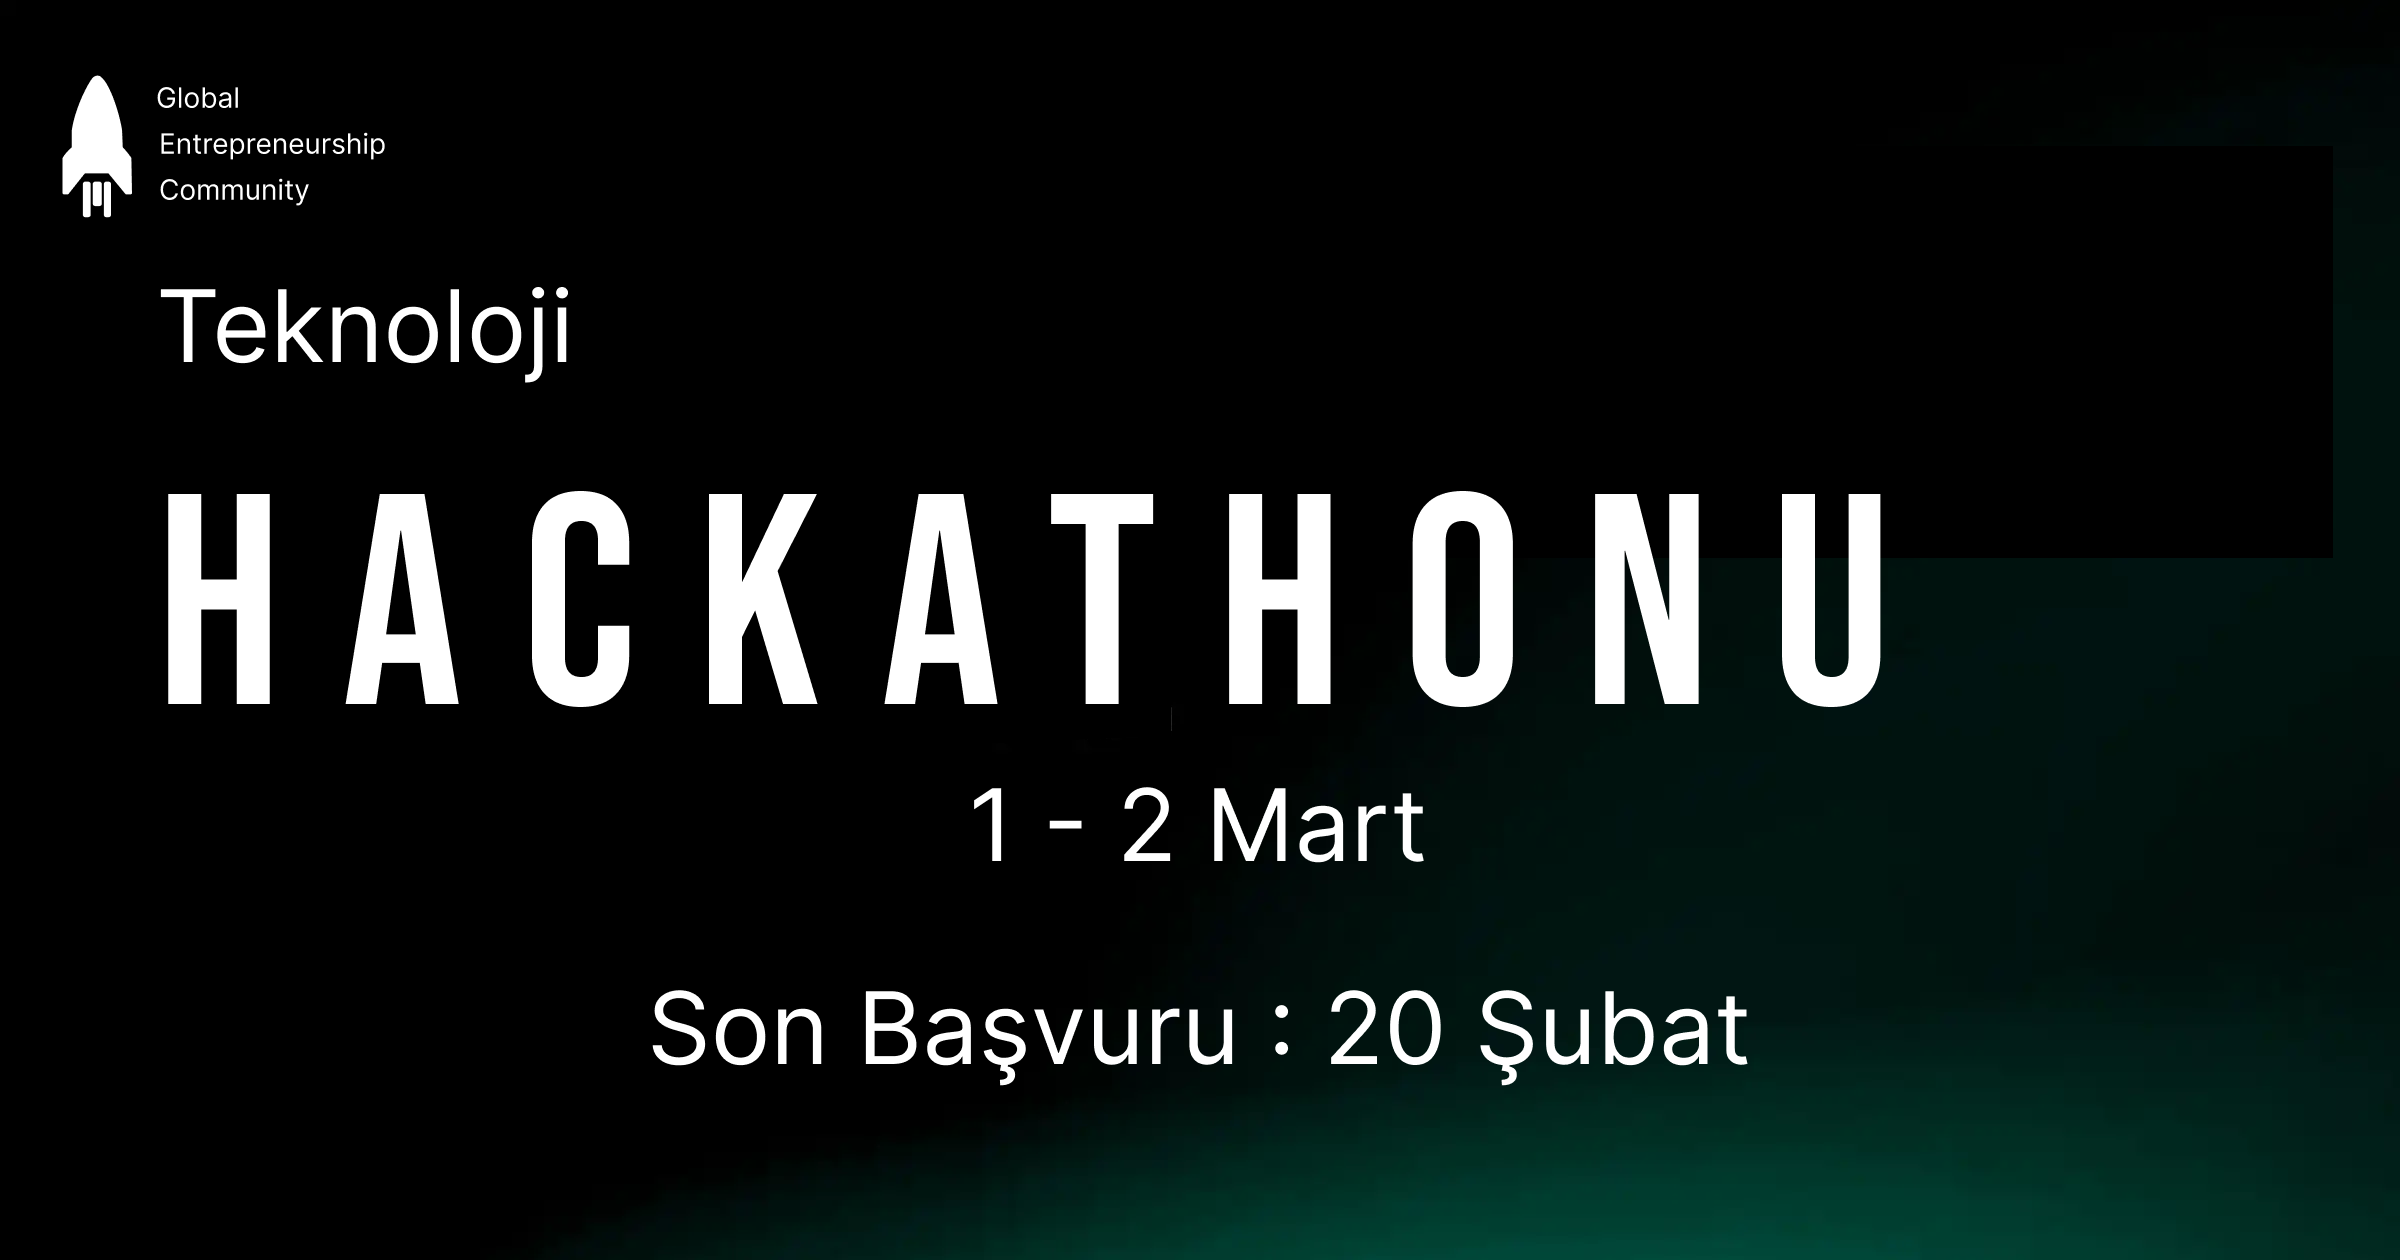
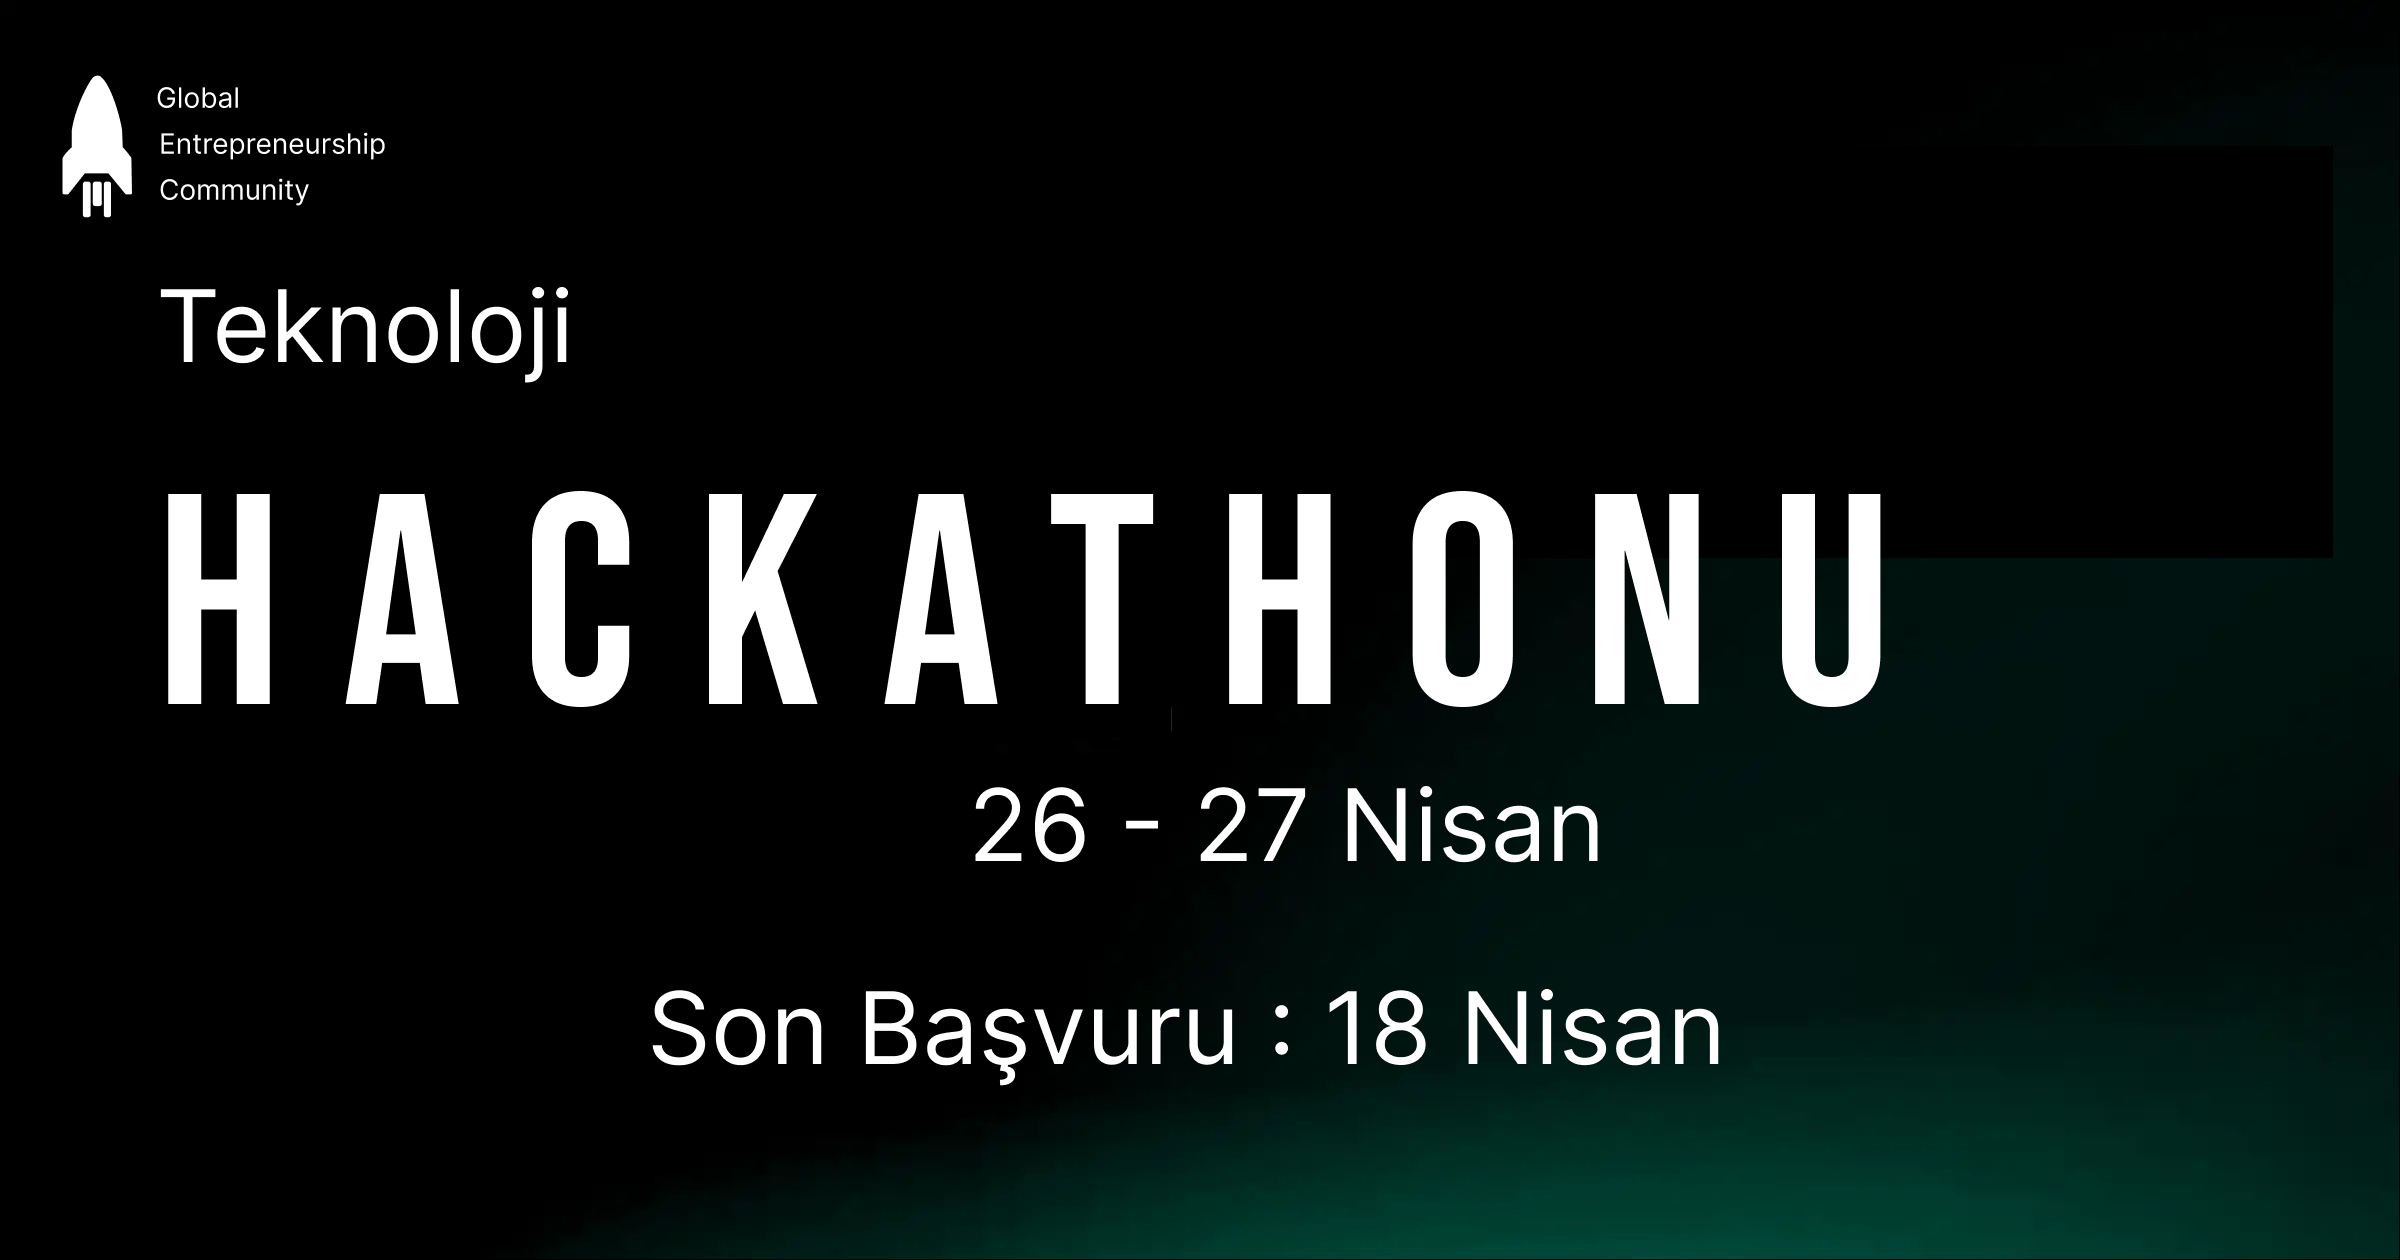
update

Changed region(s): [[0.4062, 0.619, 0.6875, 0.681], [0.5625, 0.7738, 0.75, 0.8667]]

diff --git a/index.html b/index.html
@@ -11,12 +11,12 @@
     <title>Teknoloji Hackathonu</title>
     <meta content="Techackaton" property="og:title"/>
     <meta
-            content="./meta-photo.png"
+            content="./meta_photo.png"
             property="og:image"
     />
     <meta content="Techackaton" property="twitter:title"/>
     <meta
-            content="./meta-photo.png"
+            content="./meta_photo.png"
             property="twitter:image"
     />
     <meta content="width=device-width, initial-scale=1" name="viewport"/>
